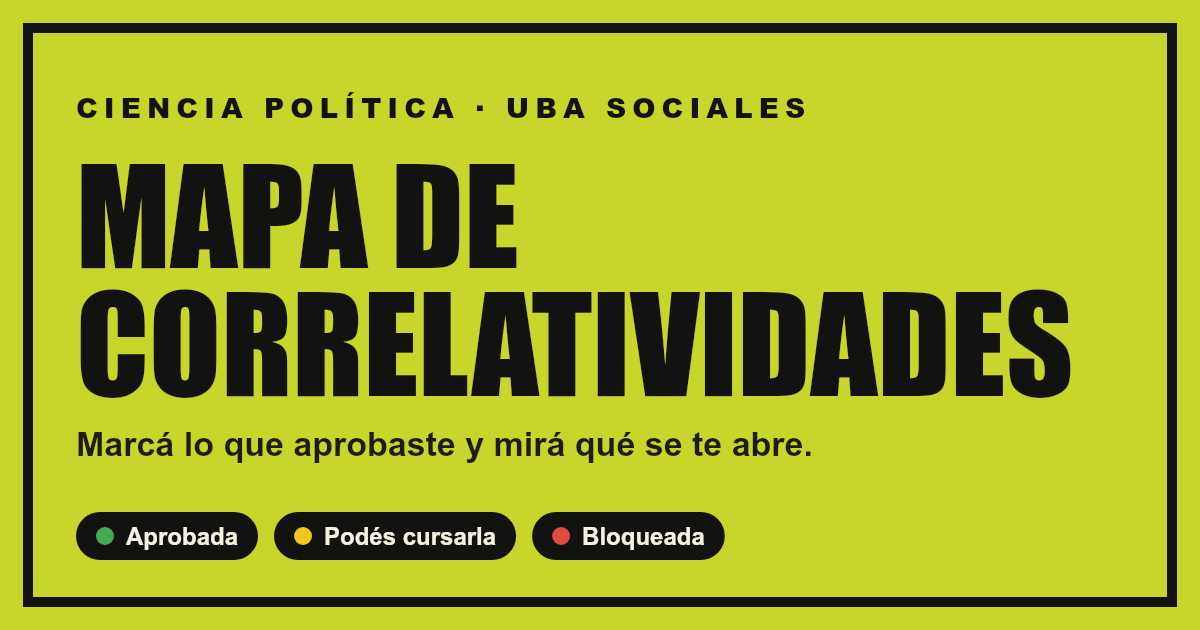
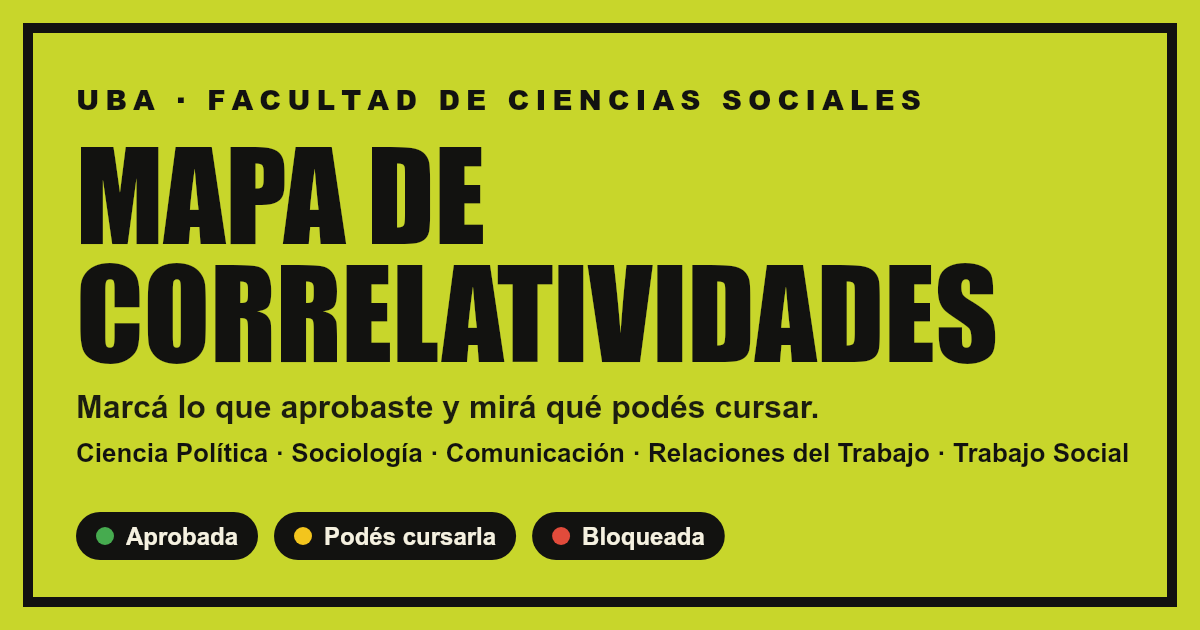
Metadata OG/meta a la era multicarrera
El title, la description y los tags og:*/twitter:* seguían diciendo "Ciencia
Política · Plan 8558/17" (identidad mono-carrera). Se actualizan a la
identidad de las cinco carreras:

- title/og:title/twitter:title → "Mapa de Correlatividades · UBA Sociales"
- description/og:description/twitter:description → nombran las cinco carreras
  (Ciencia Política, Sociología, Comunicación, Relaciones del Trabajo,
  Trabajo Social) y qué hace: marcás lo aprobado y ves qué podés cursar
- og:image:alt → mismo criterio
- og-image regenerada (gen-og.mjs): eyebrow de la Facultad, tagline
  "qué podés cursar" y línea con las cinco carreras; estética lima/negro

og:url y las URLs absolutas al dominio de Vercel quedan intactas. Repo y
package (mapa-correlatividades-cp) sin renombrar. Oráculo 0 px en las seis
rutas: la metadata no toca el render.

Changed region(s): [[0.0617, 0.1206, 0.9558, 0.754]]

diff --git a/index.html b/index.html
@@ -3,33 +3,33 @@
   <head>
     <meta charset="UTF-8" />
     <meta name="viewport" content="width=device-width, initial-scale=1.0" />
-    <title>Mapa de Correlatividades · Ciencia Política · UBA Sociales</title>
+    <title>Mapa de Correlatividades · UBA Sociales</title>
     <meta
       name="description"
-      content="Marcá las materias que aprobaste y mirá, materia por materia, qué correlativas te piden, qué te falta y qué se te abre. Ciencia Política · UBA Sociales (Plan 8558/17)."
+      content="Marcá las materias que aprobaste y mirá qué podés cursar, qué te falta y qué se te abre. Cinco carreras de la UBA Sociales: Ciencia Política, Sociología, Ciencias de la Comunicación, Relaciones del Trabajo y Trabajo Social."
     />
 
     <!-- Open Graph -->
     <meta property="og:type" content="website" />
     <meta property="og:site_name" content="Mapa de Correlatividades · UBA Sociales" />
     <meta property="og:locale" content="es_AR" />
-    <meta property="og:title" content="Mapa de Correlatividades · Ciencia Política · UBA Sociales" />
+    <meta property="og:title" content="Mapa de Correlatividades · UBA Sociales" />
     <meta
       property="og:description"
-      content="Marcá lo que aprobaste y mirá qué correlativas te piden, qué te falta y qué se te abre. Ciencia Política · UBA Sociales (Plan 8558/17)."
+      content="Marcá lo que aprobaste y mirá qué podés cursar, qué te falta y qué se te abre. Cinco carreras de la UBA Sociales: Ciencia Política, Sociología, Ciencias de la Comunicación, Relaciones del Trabajo y Trabajo Social."
     />
     <meta property="og:url" content="https://mapa-correlatividades-ubasociales.vercel.app/" />
     <meta property="og:image" content="https://mapa-correlatividades-ubasociales.vercel.app/og-image.png" />
     <meta property="og:image:width" content="1200" />
     <meta property="og:image:height" content="630" />
-    <meta property="og:image:alt" content="Mapa de Correlatividades · Ciencia Política · UBA Sociales" />
+    <meta property="og:image:alt" content="Mapa de Correlatividades · UBA Sociales · Ciencia Política, Sociología, Comunicación, Relaciones del Trabajo y Trabajo Social" />
 
     <!-- Twitter -->
     <meta name="twitter:card" content="summary_large_image" />
-    <meta name="twitter:title" content="Mapa de Correlatividades · Ciencia Política · UBA Sociales" />
+    <meta name="twitter:title" content="Mapa de Correlatividades · UBA Sociales" />
     <meta
       name="twitter:description"
-      content="Marcá lo que aprobaste y mirá qué correlativas te piden, qué te falta y qué se te abre. Ciencia Política · UBA Sociales."
+      content="Marcá lo que aprobaste y mirá qué podés cursar, qué te falta y qué se te abre. Cinco carreras de la UBA Sociales: Ciencia Política, Sociología, Ciencias de la Comunicación, Relaciones del Trabajo y Trabajo Social."
     />
     <meta name="twitter:image" content="https://mapa-correlatividades-ubasociales.vercel.app/og-image.png" />
   </head>